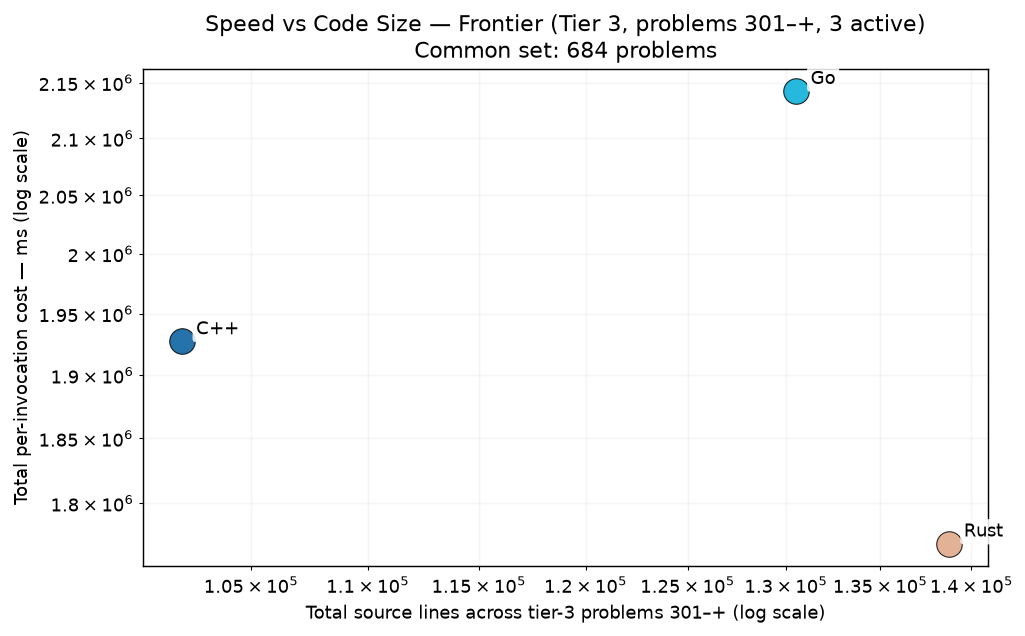
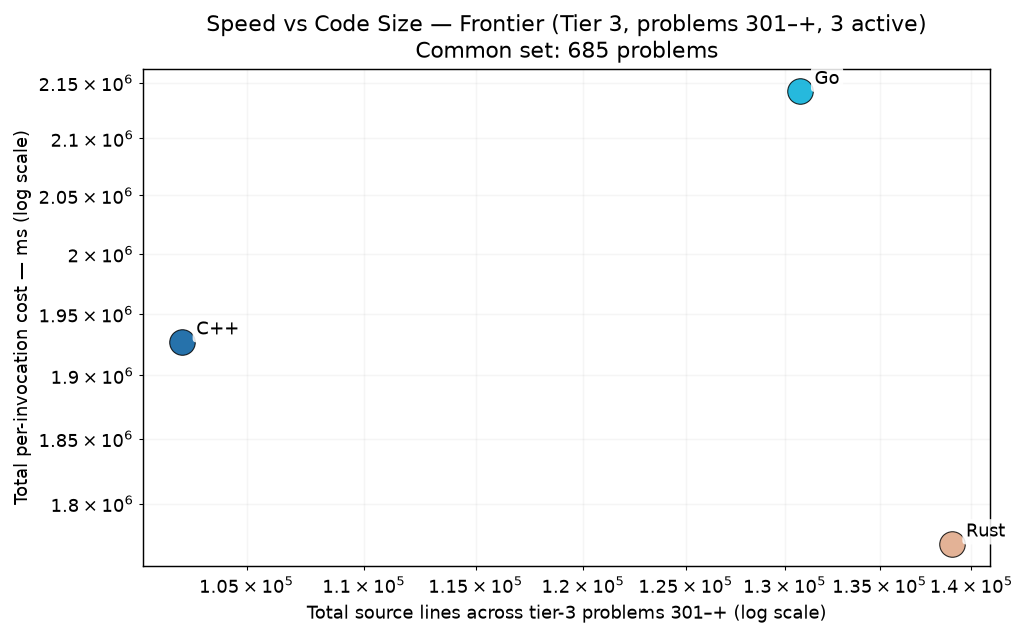
cpp p0936

diff --git a/RESULTS.md b/RESULTS.md
@@ -1,6 +1,6 @@
 # Project Euler — Cross-Language Benchmarks
 
-> **Scope: 4521 in-scope cells across 1007 problems × tiered languages — 4473 measured (98.9% coverage).**
+> **Scope: 4521 in-scope cells across 1007 problems × tiered languages — 4474 measured (99.0% coverage).**
 > The cross-language ranking below is computed over the **200-problem common set** (problems in 1-200 where every language has a passing measurement) — the apples-to-apples Foundation comparison surface.  Per-tier rankings and coverage detail appear further below.
 > Growing carefully — each new problem and language is audited for state-leak
 > safety, verified for answer correctness, and added only when it cleanly fits the
@@ -70,15 +70,15 @@ Same scatter as the Foundation chart, restricted to the tier-2 active languages 
 
 The frontier verification trio — C++, Go, Rust — on problems above 300. 3-way cross-language agreement is the verification protocol (strictly stronger than 2-way; see JOURNEY.md "Tier Reframing" episode for the p254 lesson that motivated it). Python and Zig are explicitly out of this tier — python's wall cost makes it impractical at level 5+, and zig's role caps at Tier 2.
 
-### Per-Invocation Cost (Common Set, 684 of ≤707 problems in scope)
+### Per-Invocation Cost (Common Set, 685 of ≤707 problems in scope)
 
 ![Per-Invocation Cost — Tier 3](charts/per_iter_total_tier3.png)
 
-| Rank | Language | Geomean (684-problem common set) | Total (sum) | Lines of code | vs Fastest |
+| Rank | Language | Geomean (685-problem common set) | Total (sum) | Lines of code | vs Fastest |
 |------|----------|--------------------:|------------:|--------------:|-----------:|
-| 1 | **Rust** | 75.47 ms | 1769.36 s | 138,774 | 1.00× |
-| 2 | **C++** | 78.83 ms | 1927.19 s | 102,120 | 1.04× |
-| 3 | **Go** | 88.42 ms | 2142.18 s | 130,534 | 1.17× |
+| 1 | **Rust** | 75.64 ms | 1769.72 s | 138,906 | 1.00× |
+| 2 | **C++** | 78.89 ms | 1927.32 s | 102,332 | 1.04× |
+| 3 | **Go** | 88.45 ms | 2142.28 s | 130,802 | 1.17× |
 
 ### Speed vs Code Size
 
@@ -264,7 +264,7 @@ table never silently mixes versions (METHODOLOGY.md §4).  Current state of the
 |----------|-----------|------:|---------------|
 | **ARM64** | `Apple clang version 21.0.0 (clang-2100.1.1.101)` | 200 | 2026-07-30 |
 | **C** | `Apple clang version 21.0.0 (clang-2100.1.1.101)` | 200 | 2026-07-30 |
-| **C++** | `Apple clang version 21.0.0 (clang-2100.1.1.101)` | 984 | 2026-09-07 |
+| **C++** | `Apple clang version 21.0.0 (clang-2100.1.1.101)` | 985 | 2026-09-07 |
 | **C#** | `10.0.101` | 200 | 2026-07-30 |
 | **Go** | `go version go1.26.5 darwin/arm64` | 987 | 2026-09-07 |
 | **Java** | `openjdk version "21.0.2" 2024-01-16 LTS` | 200 | 2026-07-30 |

diff --git a/per_problem/per_problem_0901-1000.md b/per_problem/per_problem_0901-1000.md
@@ -43,7 +43,7 @@ in tier-1 display order (native → managed → interpreted).
 | **p0933** | 5.05 s | 3.56 s | 4.77 s |
 | **p0934** | 109.72 ms | 72.50 ms | 767.08 ms |
 | **p0935** | 272.26 ms | 332.64 ms | 136.53 ms |
-| **p0936** | — | 361.19 ms | 104.41 ms |
+| **p0936** | 126.69 ms | 361.19 ms | 104.41 ms |
 | **p0937** | 938.35 ms | 898.69 ms | 1.10 s |
 | **p0938** | 351.52 ms | 716.81 ms | 529.01 ms |
 | **p0939** | 71.63 ms | 242.46 ms | 92.70 ms |
